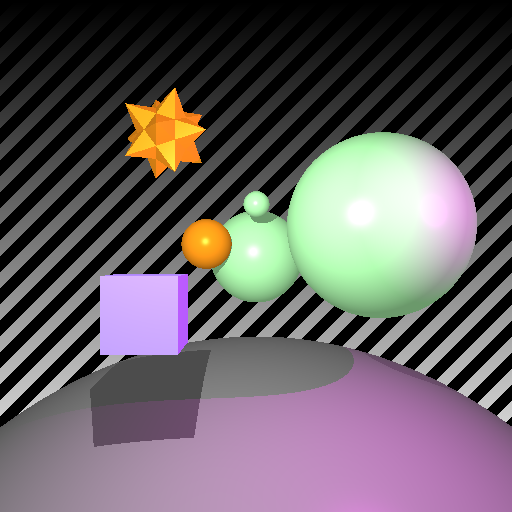
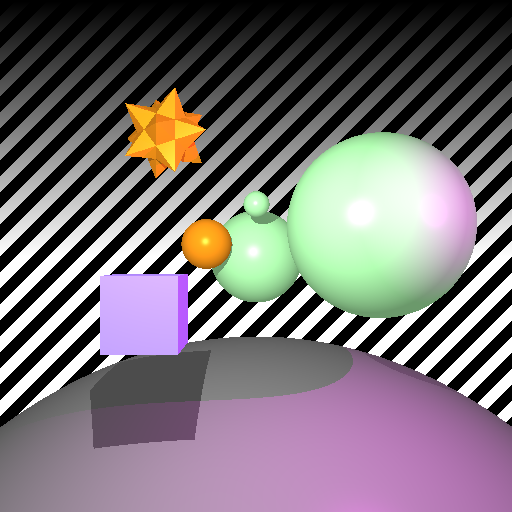
Update a4.cpp: enable reflections

Changed region(s): [[0.0, 0.0938, 1.0, 0.8438], [0.1875, 0.8438, 0.375, 0.875], [0.4062, 0.75, 0.5312, 0.7812]]

diff --git a/handin/A4/src/a4.cpp b/handin/A4/src/a4.cpp
@@ -100,11 +100,11 @@ Colour a4_trace_ray(const Ray& ray, const SceneNode *root, const Light* light, c
     if((u.q - shadow.origin()).length() > (light->position-shadow.origin()).length()) blocked = false;
 
     Colour reflected_colour(0.0, 0.0, 0.0);
-    //if(recurse_level > 0) 
-    //{
-    //  Ray reflected_ray(hit, ray.direction() - 2*ray.direction().dot(i.n)*i.n);
-    //  reflected_colour = a4_trace_ray(reflected_ray, root, light, ambient, reflected_colour, --recurse_level);
-    //}
+    if(recurse_level > 0) 
+    {
+      Ray reflected_ray(hit, ray.direction() - 2*ray.direction().dot(i.n)*i.n);
+      reflected_colour = a4_trace_ray(reflected_ray, root, light, ambient, reflected_colour, --recurse_level);
+    }
 
     // Perform phong shading at intersection point
     colour = a4_lighting(ray, i, light, ambient, reflected_colour, blocked);
